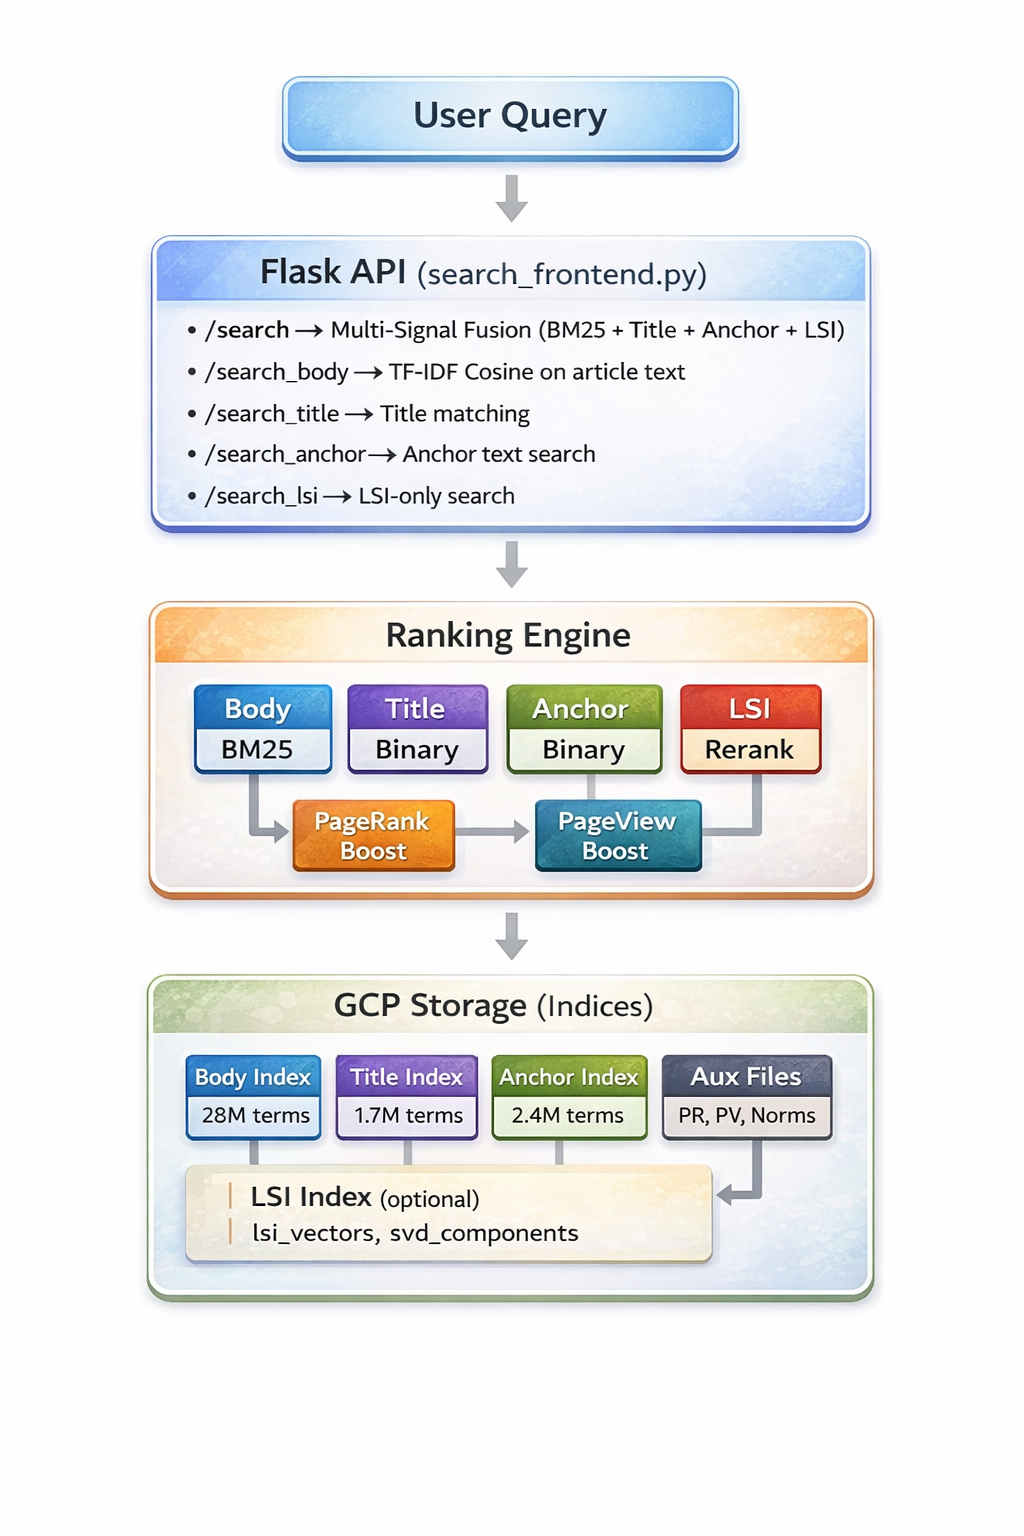
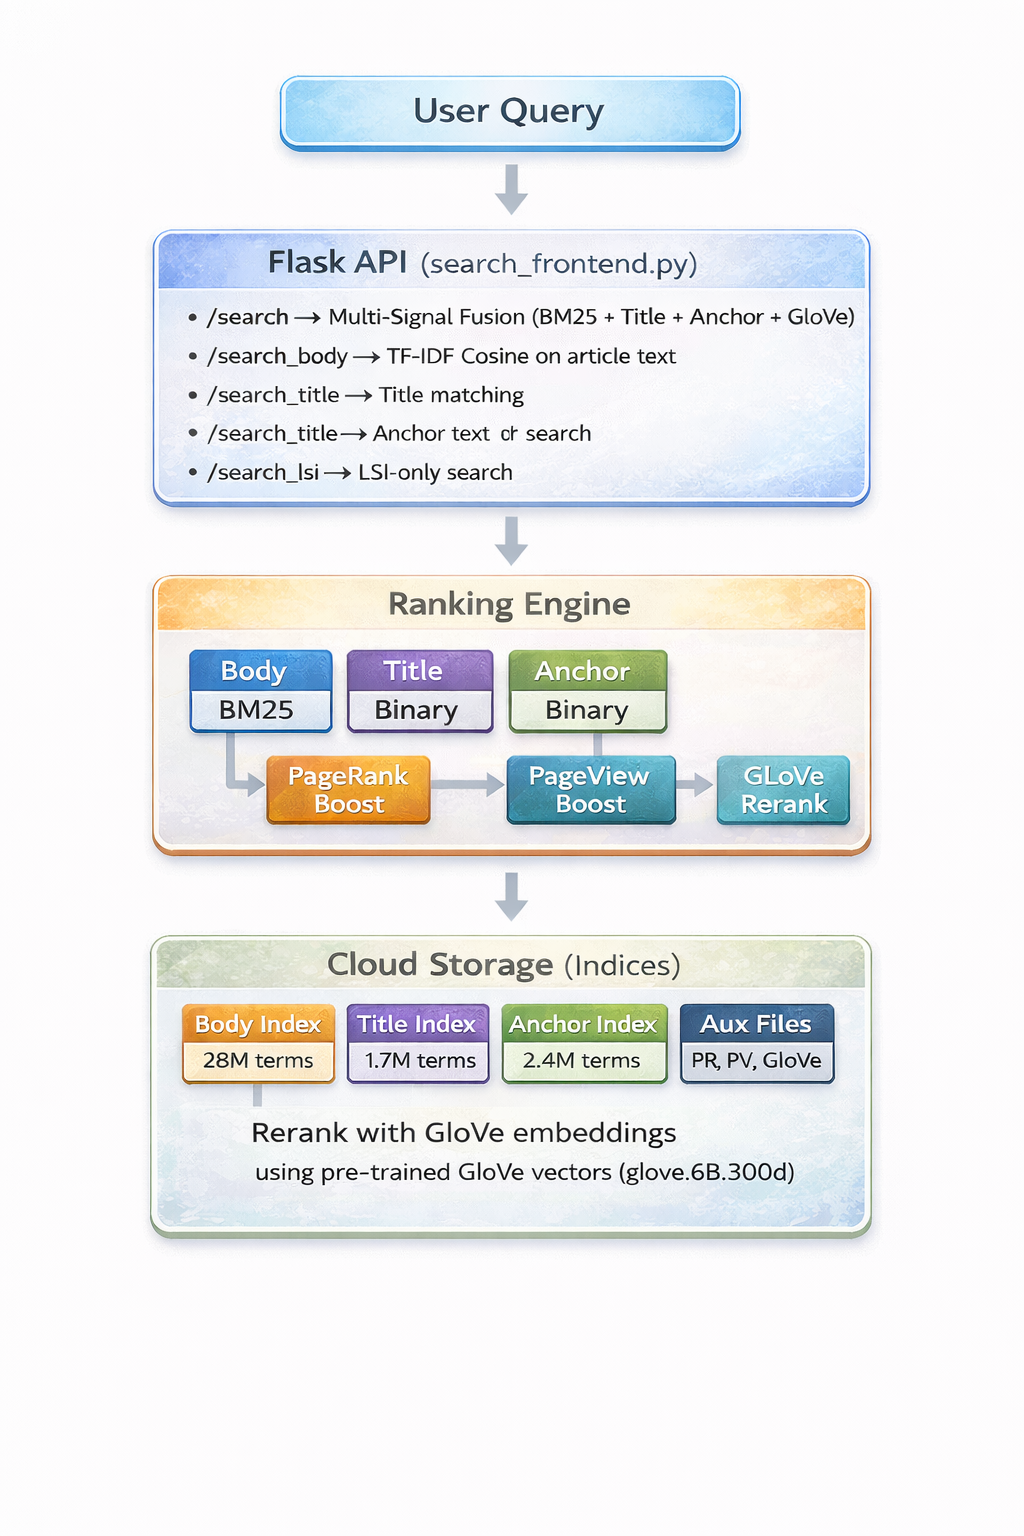
added glove

Changed region(s): [[0.125, 0.0312, 0.875, 0.875], [0.7188, 0.125, 0.8438, 0.1562]]

diff --git a/config.py b/config.py
@@ -74,8 +74,8 @@ PAGEVIEWS_PATH = (GCS_AUX_DIR + "/pageviews.pkl") if USE_GCS_PATHS else (AUX_DIR
 # BM25 parameters
 # ============================================================================
 # BM25 scoring parameters (tuned for best Average Precision@10 performance)
-BM25_K1 = 2.5  # Term frequency saturation parameter (default: 2.5)
-BM25_B = 0.0   # Document length normalization parameter (default: 0.0, no normalization)
+BM25_K1 = 3.0 # Term frequency saturation parameter (default: 2.5)
+BM25_B = 0.25  # Document length normalization parameter (default: 0.0, no normalization)
 
 # ============================================================================
 # Ranking weights for signal merging
